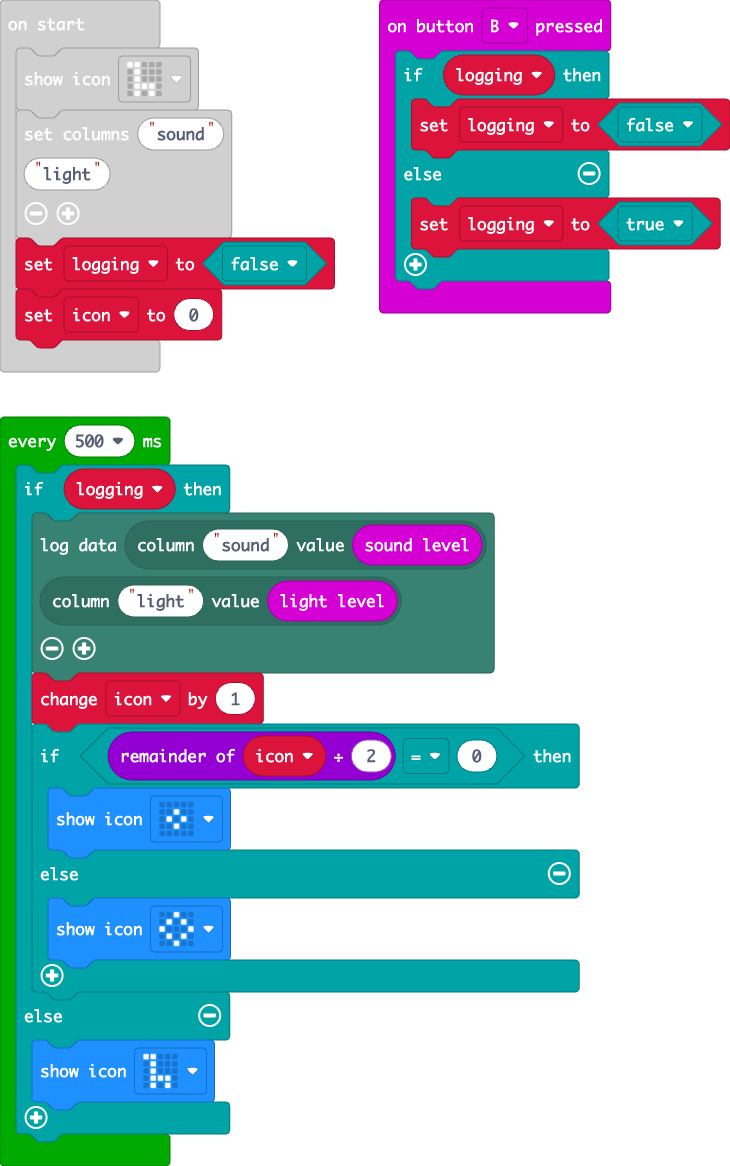
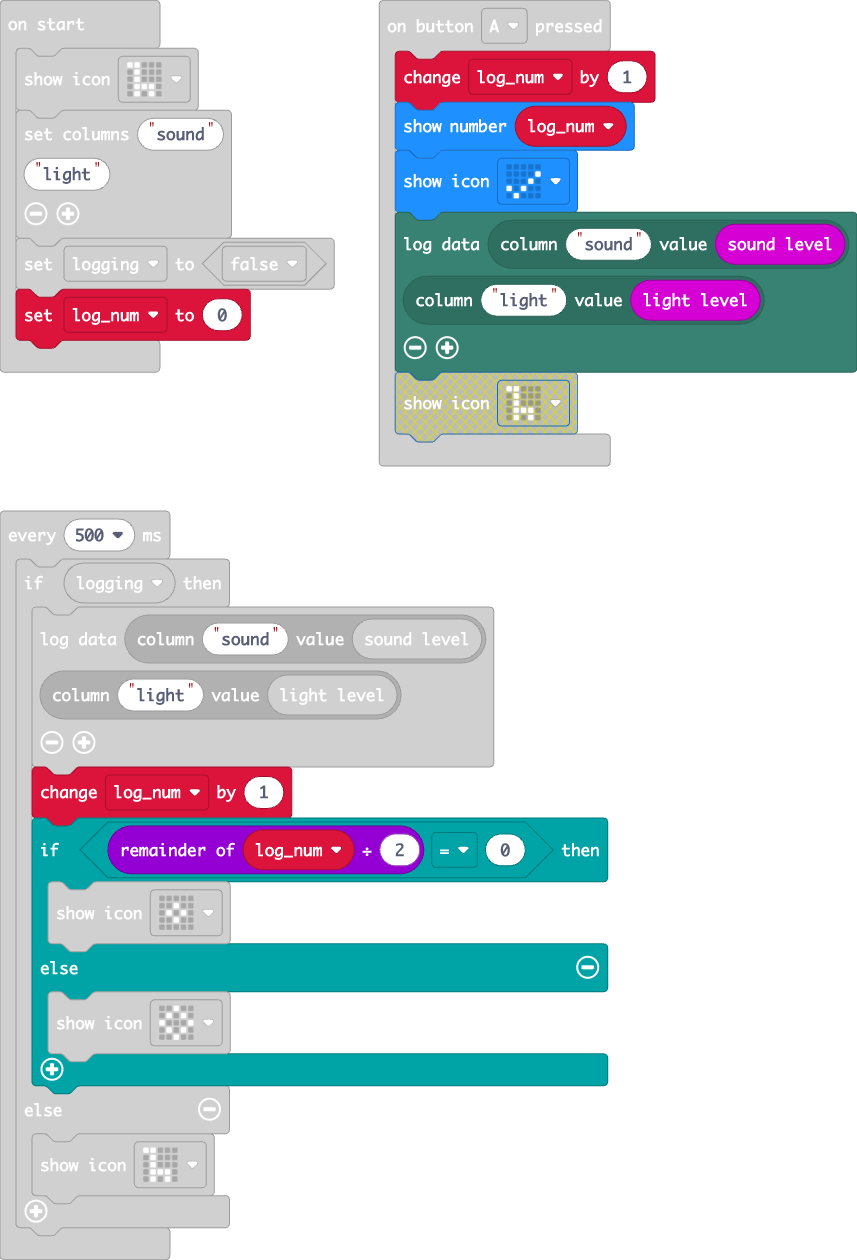
Update main.blocks, main.ts

diff --git a/main.ts b/main.ts
@@ -2,12 +2,13 @@ datalogger.onLogFull(function () {
     basic.showIcon(IconNames.Sad)
 })
 input.onButtonPressed(Button.A, function () {
+    log_num += 1
+    basic.showNumber(log_num)
     basic.showIcon(IconNames.Yes)
     datalogger.log(
     datalogger.createCV("sound", input.soundLevel()),
     datalogger.createCV("light", input.lightLevel())
     )
-    basic.showIcon(IconNames.Giraffe)
 })
 input.onButtonPressed(Button.B, function () {
     if (logging) {
@@ -16,6 +17,7 @@ input.onButtonPressed(Button.B, function () {
         logging = true
     }
 })
+let log_num = 0
 let logging = false
 basic.showIcon(IconNames.Giraffe)
 datalogger.setColumnTitles(
@@ -23,15 +25,15 @@ datalogger.setColumnTitles(
 "light"
 )
 logging = false
-let icon = 0
+log_num = 0
 loops.everyInterval(500, function () {
     if (logging) {
         datalogger.log(
         datalogger.createCV("sound", input.soundLevel()),
         datalogger.createCV("light", input.lightLevel())
         )
-        icon += 1
-        if (icon % 2 == 0) {
+        log_num += 1
+        if (log_num % 2 == 0) {
             basic.showIcon(IconNames.SmallDiamond)
         } else {
             basic.showIcon(IconNames.Diamond)
